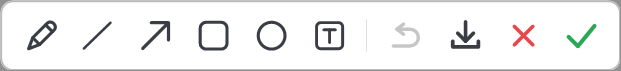
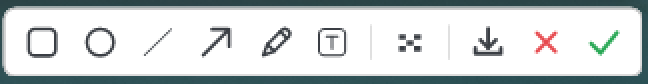
docs(screenshots): refresh overview + toolbar for v2.1; drop stale v1 notes
Overview: live v2.1 overlay (hovered candidate region, blue frame + size badge, dimmed exterior, icon-only toolbar). Toolbar: 10 icons incl. mosaic. Also drops the long-shot wording left in RELEASE.md/build.ps1/e2e.ps1/EngineTests.cs comments (no binary rebuild: hashes must match the released v2.1.0).

diff --git a/src/SnipTool.cs b/src/SnipTool.cs
@@ -32,7 +32,7 @@ static class Program
     // --dark / --light override it so the host (or a test) can force either one.
     public static bool DarkMode;
 
-    // v2.1: automated evidence modes (--selftest/--auto/--detect/--longshot-probe) must
+    // v2.1: automated evidence modes (--selftest/--auto/--detect) must
     // never block on a modal dialog. Set from the command line before any UI exists.
     public static bool SuppressDialogs;
 

diff --git a/src/EngineTests.cs b/src/EngineTests.cs
@@ -1,4 +1,4 @@
-// Headless test entry point for the detection + long-shot engines (owner: engine-dev).
+// Headless test entry point for the detection engine (owner: engine-dev).
 //   bin/EngineTests.exe --json out.json --png out-dir
 // Writes machine readable results and exits 0 only when every check passed.
 using System;

diff --git a/docs/RELEASE.md b/docs/RELEASE.md
@@ -28,7 +28,7 @@ pwsh -NoProfile -File build.ps1
 - 编译器：`C:\Windows\Microsoft.NET\Framework64\v4.0.30319\csc.exe`（.NET Framework 4.8），
   语言级别为 C# 5（不用字符串插值、`?.`、`nameof`、表达式体成员、`out var`）。
 - 产物：`bin/SnipTool.exe`（WinExe，覆盖层 + 编辑器 + 热进程服务）、
-  `bin/EngineTests.exe`（目标识别与长截图算法的无界面测试）。
+  `bin/EngineTests.exe`（目标识别与命中缓存的界面无关测试；v2.1 起不再含长截图算法）。
 - 构建后自检：`pwsh -NoProfile -File tools/e2e.ps1 -SkipNative` 或完整 `tools/e2e.ps1`。
 - 构建失败排查：`out/evidence/logs/build.log` 里有完整 stdout/stderr（`tools/e2e.ps1` 生成）。
 
@@ -127,8 +127,6 @@ pwsh -NoProfile -File install.ps1 -Rollback -WhatIf
 - 安装需要本机 pnpm；没有 pnpm 时 `install.ps1` 会在第 2 步前明确报错退出，不会半途修改文件。
 - 安装脚本按 profile 的 `package.json`/`cordis.patch.yml` 两个文件备份与回滚；若用户在同一
   时间段内手工改过这两个文件，回滚会覆盖这些手工改动。
-- 长截图只能捕获「在选区内随滚轮滚动」的内容；不随滚轮滚动（虚拟化列表一次性渲染、原生窗口
-  自绘而忽略滚轮）的界面可能拼不出完整长图，需要改用普通截图。
 - 马赛克是对当前画布像素的破坏性编辑，插件不提供「还原原像素」；取消/不保存即可放弃整张编辑。
 - 覆盖层按像素坐标工作：显示器热插拔、运行中修改缩放比例后，需退出覆盖层重新进入才能拿到新布局。
 - 单实例约束由 `SnipTool.exe --serve` 热进程提供；若该进程被外部强行结束，下一次点击会重建，
@@ -168,7 +166,7 @@ pwsh -NoProfile -File install.ps1 -Rollback -WhatIf
 - [ ] build.ps1 -Tests 退出码 0，bin/SnipTool.exe 与 bin/EngineTests.exe 存在
 - [ ] tools/e2e.ps1 退出码 0，out/evidence/report.json 中无 fail 步骤
 - [ ] tools/e2e.ps1 -Strict 退出码 0（无 pending）
-- [ ] tools/e2e.ps1 共 10 步全 PASS（含 selftest 逐项 summary.json 全 passed、longshot-probe：ok=true、frames>=2、composedHeight>selHeight、crash-probe：ok=true、afterBytes > beforeBytes、docs：VERIFY 30/30 + RELEASE 6/6）
+- [ ] tools/e2e.ps1 共 10 步全 PASS（含 selftest 逐项 summary.json 全 passed 且 A1/A2/A6/A7/A9-R26 五条在场、crash-probe：ok=true、afterBytes > beforeBytes、docs：VERIFY 30/30 + RELEASE 6/6；v2.1 起不再有 longshot-probe 步骤）
 - [ ] crash_probe.json 的 marker 出现在 %TEMP%\dsh-snip-error.log 尾部（日志是追加写的）
 - [ ] docs/VERIFY.md 的 R1–R30 已按表格记录结论与证据路径
 - [ ] pnpm pack 产物已自检（tar 列表 + plugin-smoke）

diff --git a/README.en.md b/README.en.md
@@ -10,7 +10,7 @@ Native screenshot tool v2 for DeepSeek Harness on Windows: automatic window/scre
 English | [中文](README.md)
 
 ![Overview](docs/screenshots/overview-zh.png)
-> *Note: Diagram shows v1 interface. v2 adds the bottom editor with Mosaic and Save/Cancel/Confirm.*
+> *Note: The screenshot shows the v2.1 interface — a hovered candidate region (thicker blue frame + size badge at its top-left), the area outside dimmed, and the icon-only toolbar.*
 
 ## Features (R1–R30)
 
@@ -29,7 +29,7 @@ English | [中文](README.md)
 | 100% Local & Zero Telemetry | Native .NET Framework 4.8 / GDI+ implementation; zero network requests, zero telemetry (R26, R29) |
 
 ![Toolbar](docs/screenshots/toolbar.png)
-> *Note: Diagram shows v1 toolbar. v2.1 removed the top toggle bar and the long-screenshot mode; the unified editor adds Mosaic in the middle, and Save/Cancel/Confirm on the right.*
+> *Note: v2.1 toolbar: rectangle, ellipse, line, arrow, pen, text, mosaic | save, cancel (red cross), confirm (green check). Undo is `Ctrl+Z`.*
 
 ## Installation
 

diff --git a/README.md b/README.md
@@ -10,7 +10,7 @@
 [English](README.en.md) | 中文
 
 ![主界面](docs/screenshots/overview-zh.png)
-> *注：示意图为 v1 界面；v2.1 起取消顶部开关栏与长截图（隐藏与否只由左键/右键入口决定），底部统一编辑器新增马赛克与保存/取消/确定三键。*
+> *注：示意图为 v2.1 实际界面——鼠标悬停的候选选区（稍粗蓝色边框 + 左上角尺寸标签）、区域外暗化，以及底部的纯图标工具栏。*
 
 ## 特性 (R1–R30)
 
@@ -29,7 +29,7 @@
 | 纯本地与零遥测 | 原生 .NET Framework 4.8 / GDI+ 实现，纯本地运行，无网络请求、无遥测 (R26, R29) |
 
 ![工具栏](docs/screenshots/toolbar.png)
-> *注：示意图为 v1 工具栏；v2 统一编辑器中间新增马赛克，右侧固定为保存、取消、确定。*
+> *注：示意图为 v2.1 工具栏：矩形、椭圆、直线、箭头、画笔、文本、马赛克 ｜ 保存、取消（红叉）、确定（绿勾）；撤销用 `Ctrl+Z`。*
 
 ## 安装
 
